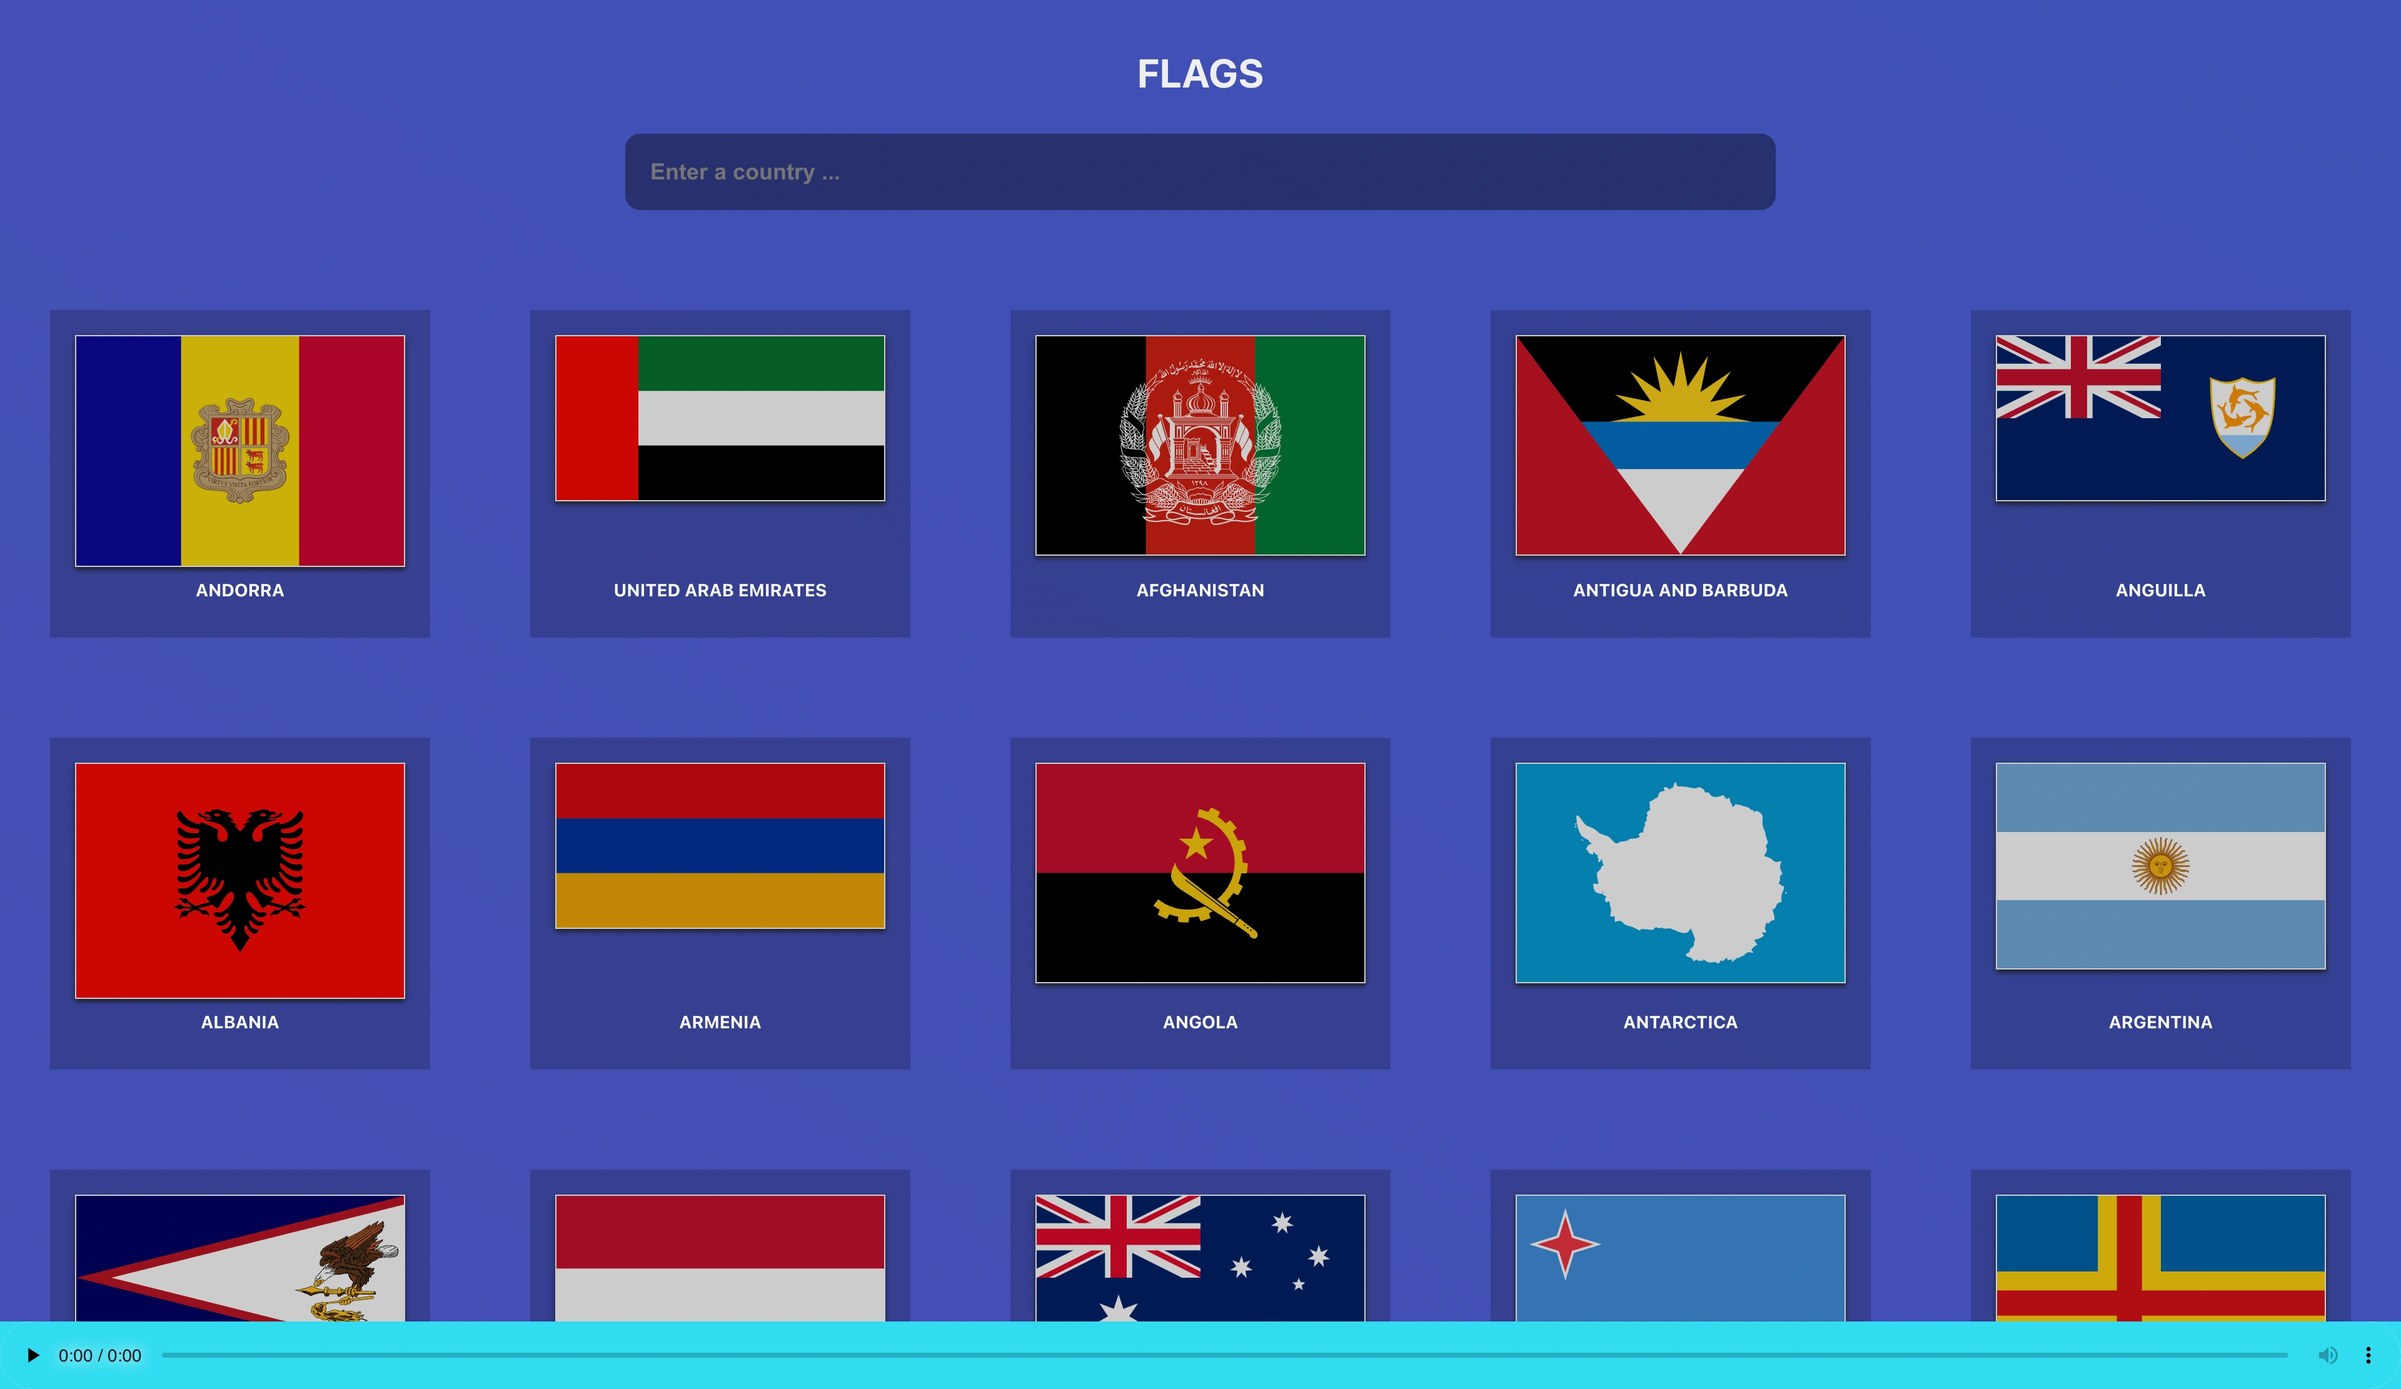
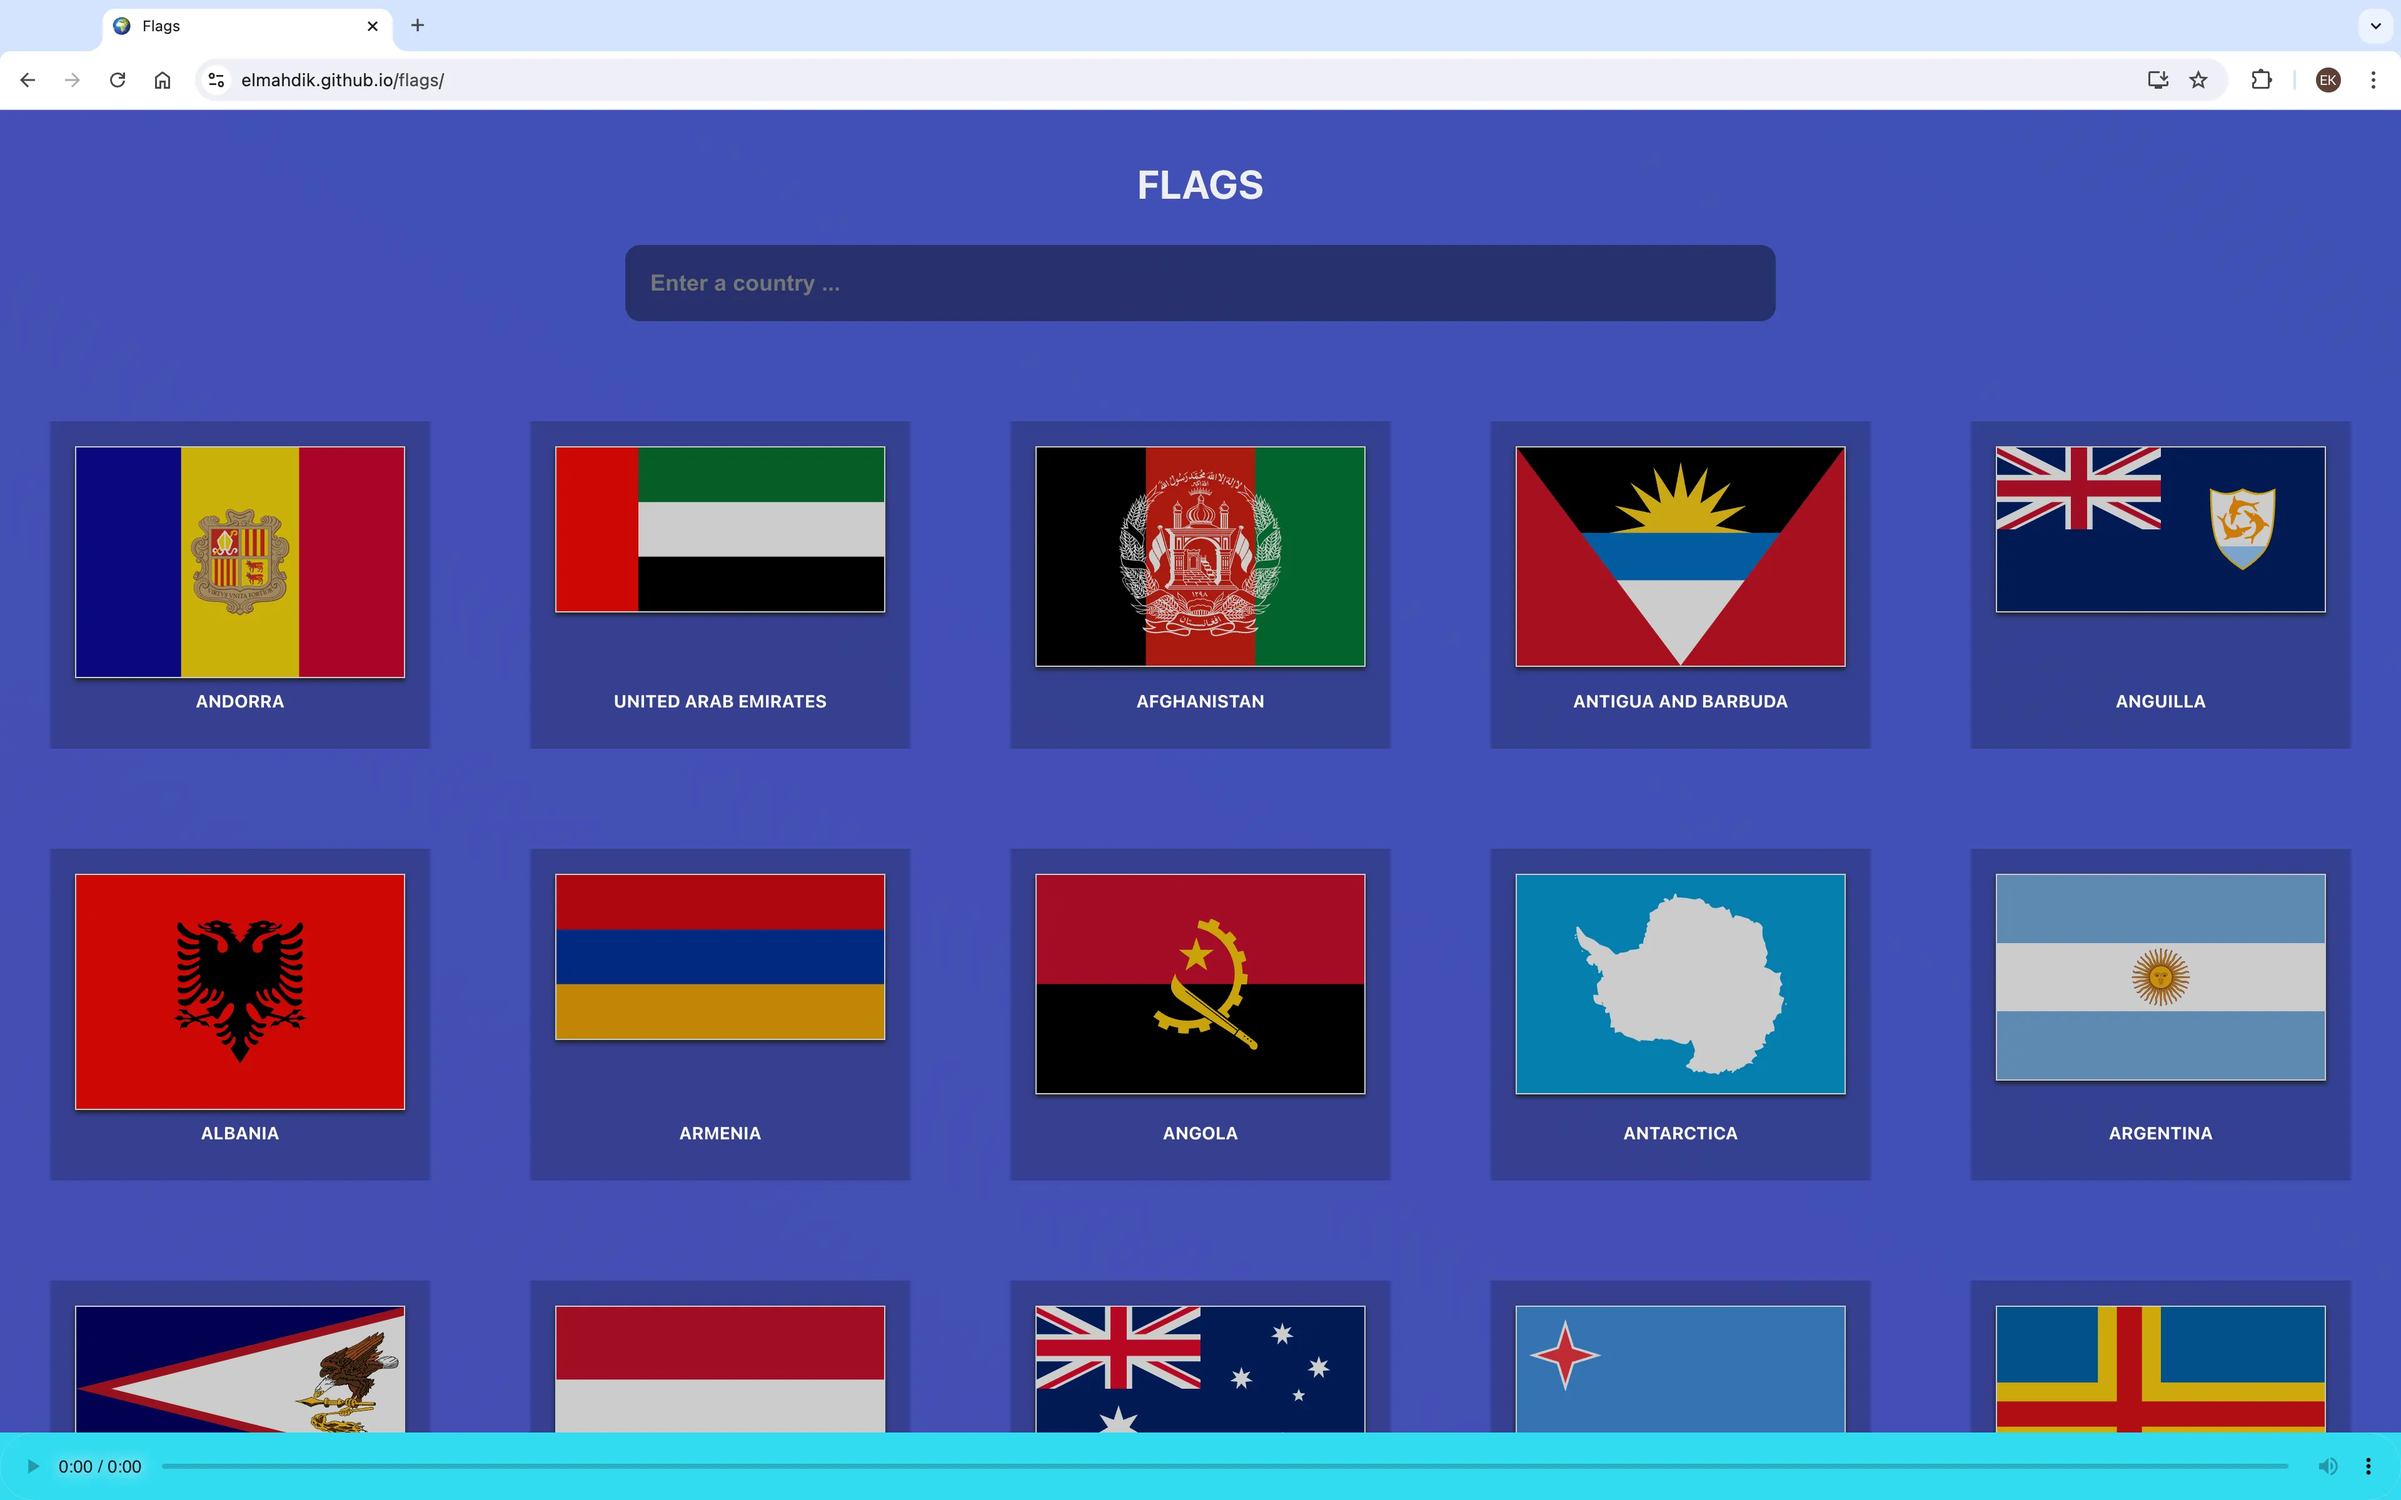
fix(portfolio): new design

diff --git a/src/components/card/style.scss b/src/components/card/style.scss
@@ -1,64 +1,40 @@
 .li--card {
-  background: linear-gradient(120deg,rgba(128, 0, 128, 0.4),rgba(30, 143, 255, 0.4));
-  width: calc(100% - 20%);
-  margin: 10px 10%;
-  padding: 20px;
-  position: relative;
+  width: calc(100% - 0px);
+  height: calc(50vh - 0px);
+  // margin-bottom: 1px;
   display: flex;
-  justify-content: space-between;
-  flex-direction: row;
 
+  // &:hover {
 
-  /*&:hover {
-    img {
-      animation-name: zoomImg !important;
-      animation-iteration-count: 1 !important;
-      animation-duration: 5s !important;
-      animation-fill-mode: forwards;
-    }
-    h2 {
-      animation-name: zoomText !important;
-      animation-iteration-count: 1 !important;
-      animation-duration: 5s !important;
-      animation-fill-mode: forwards;
-    }
-  }*/
+  //   .div-infos {
+  //       animation-name: fade-text;
+  //       animation-iteration-count: 1;
+  //       animation-duration: 2s;
+  //       animation-fill-mode: forwards ;
+  //   }
+  // }
 
   .div-img {
-    // background-color: rgba(0,0,0,0.02);
-    flex:1.5;
-    // padding: 20px;
-    // width: 80%;
+    background: linear-gradient(120deg,rgba(128, 0, 128, 0.4),rgba(30, 143, 255, 0.4));
+    width: 70%;
     display: flex;
     justify-content: center;
     align-content: center;
-    position: relative;
 
     img {
       background-color: rgba(255,255,255,0.4);
       border:1px solid var(--color-white);
       box-shadow: 10px 10px 0px 0px #111;
-      // max-width: 100%;
-      width: fit-content;
-      // width: 50%;
-      // flex:1;
+      max-height: (40vh);
+      max-width: 90%;
+      padding: 2vh;
       object-fit: contain;
-      justify-self: flex-start;
       align-self: center;
-      vertical-align: top;
-      margin:40px;
-      padding: 20px;
-      transform:scale(1);
-      transition: transform 0.5s ease; 
     }
   }
 
   .div-infos {
-    background-color: rgba(255,255,255,0.4);
-    border:1px solid var(--color-white);
-    flex:0.5;
-    // background-color: var(--color-white);
-    margin:20px;
+    width:30%;
     display: flex;
     flex-direction: column;
     justify-content: center;
@@ -66,12 +42,6 @@
     position: relative;
 
     ul {
-      // background-color: var(--color-white);
-      // border-bottom:1px solid var(--color-black);
-      // position: absolute;
-      // bottom: 0px;
-      // left: 0%;
-      // right: 0%;
       list-style: none;
       display: flex;
       flex-direction: row;
@@ -145,7 +115,16 @@
   }
 }
 
+
 /*
+@keyframes fade-text {
+  0% {
+      opacity: 0;
+  }
+  100% {
+      opacity: 1;
+  }
+}
 @keyframes zoomText {
   0% {
       // opacity: 1;

diff --git a/src/components/card/style-mobile.scss b/src/components/card/style-mobile.scss
@@ -7,8 +7,11 @@
         flex-direction: column !important;
 
         .div-infos{
-            background-color: transparent !important;
-            border: none;
+            flex-direction: column-reverse;
+        }
+        .div-infos, .div-img{
+            flex:1;
+            width: auto;
         }
     }
 }
